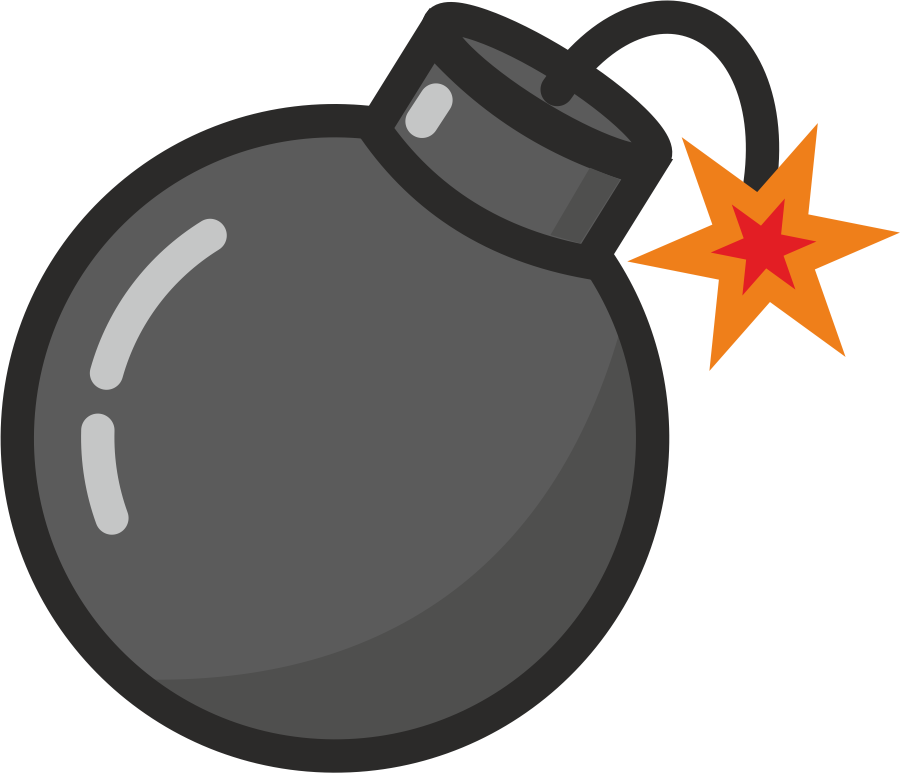
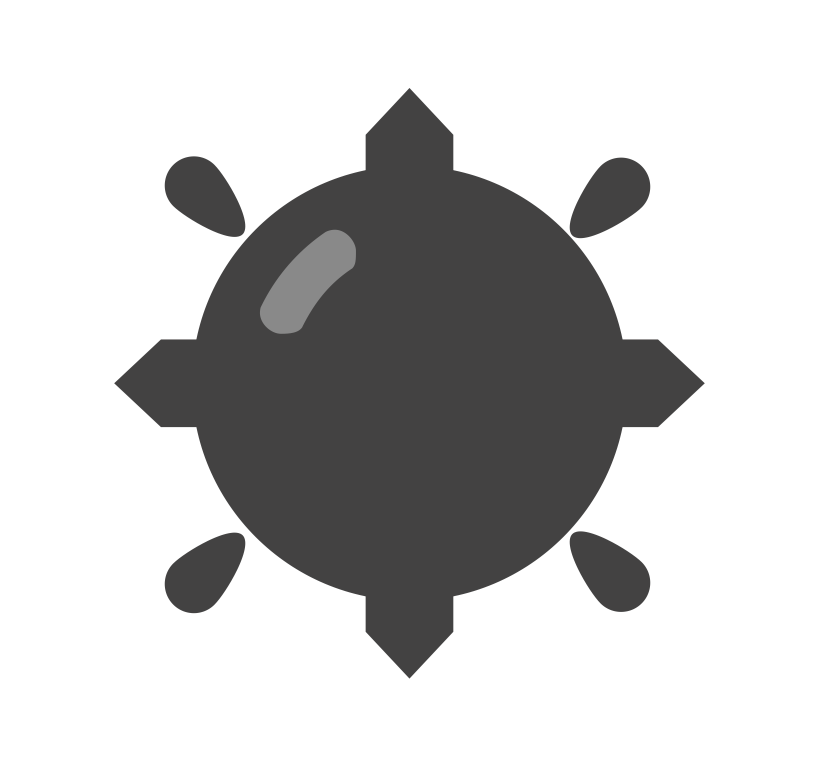
0.1 changes style, add flag

diff --git a/Minesweeper_on_array/saper_on_array.html b/Minesweeper_on_array/saper_on_array.html
@@ -13,38 +13,61 @@
             margin: auto;
             text-align: center;
             font-family: 'Roboto Slab', serif;
+            background-color: lightgray;
+            font-size: 18px;
         }
 
         #wrap {
-            width: 176px;
-            height: 176px;
+            width: 266px;
+            height: 266px;
+            border: 3px solid DimGrey;
+            border-top-color: white;
+            border-left-color: white;
+        }
+
+        #conteiner {
+            margin: 7px;
+            width: 246px;
+            height: 246px;
+            border: 3px solid DimGrey;
+            border-bottom-color: white;
+            border-right-color: white;
 
         }
 
         .item {
-            width: 20px;
-            height: 20px;
-            margin: 1px;
-            background: darkgray;
+            width: 30px;
+            height: 30px;
+            margin: 0px;
             text-align: center;
             float: left;
-            line-height: 16px;
+            border: 3px solid DimGrey;
+            border-top-color: white;
+            border-left-color: white;
         }
 
         .bomb {
-            width: 20px;
-            height: 20px;
+            width: 30px;
+            height: 30px;
             background-image: url("bomb.png");
             background-size: contain;
             background-repeat: no-repeat;
             background-position: center;
-            background-color: white;
-
+            border: 1px solid darkgray;
         }
 
         .nobomb {
             background-color: lightgray;
-            border: 1px solid gray;
+            border: 1px solid darkgray;
+        }
+
+        .flag {
+            background-image: url("flag.png");
+            background-size: contain;
+            background-repeat: no-repeat;
+            background-position: center;
+            background-color: lightgray;
+
         }
 
         div span {
@@ -63,74 +86,75 @@
 <body>
     <button id="newgame">New game</button>
     <div id="wrap">
+        <div id="conteiner">
 
-        <div class="item" id="0"><span></span></div>
-        <div class="item" id="1"><span></span></div>
-        <div class="item" id="2"><span></span></div>
-        <div class="item" id="3"><span></span></div>
-        <div class="item" id="4"><span></span></div>
-        <div class="item" id="5"><span></span></div>
-        <div class="item" id="6"><span></span></div>
-        <div class="item" id="7"><span></span></div>
-        <div class="item" id="8"><span></span></div>
-        <div class="item" id="9"><span></span></div>
-        <div class="item" id="10"><span></span></div>
-        <div class="item" id="11"><span></span></div>
-        <div class="item" id="12"><span></span></div>
-        <div class="item" id="13"><span></span></div>
-        <div class="item" id="14"><span></span></div>
-        <div class="item" id="15"><span></span></div>
-        <div class="item" id="16"><span></span></div>
-        <div class="item" id="17"><span></span></div>
-        <div class="item" id="18"><span></span></div>
-        <div class="item" id="19"><span></span></div>
-        <div class="item" id="20"><span></span></div>
-        <div class="item" id="21"><span></span></div>
-        <div class="item" id="22"><span></span></div>
-        <div class="item" id="23"><span></span></div>
-        <div class="item" id="24"><span></span></div>
-        <div class="item" id="25"><span></span></div>
-        <div class="item" id="26"><span></span></div>
-        <div class="item" id="27"><span></span></div>
-        <div class="item" id="28"><span></span></div>
-        <div class="item" id="29"><span></span></div>
-        <div class="item" id="30"><span></span></div>
-        <div class="item" id="31"><span></span></div>
-        <div class="item" id="32"><span></span></div>
-        <div class="item" id="33"><span></span></div>
-        <div class="item" id="34"><span></span></div>
-        <div class="item" id="35"><span></span></div>
-        <div class="item" id="36"><span></span></div>
-        <div class="item" id="37"><span></span></div>
-        <div class="item" id="38"><span></span></div>
-        <div class="item" id="39"><span></span></div>
-        <div class="item" id="40"><span></span></div>
-        <div class="item" id="41"><span></span></div>
-        <div class="item" id="42"><span></span></div>
-        <div class="item" id="43"><span></span></div>
-        <div class="item" id="44"><span></span></div>
-        <div class="item" id="45"><span></span></div>
-        <div class="item" id="46"><span></span></div>
-        <div class="item" id="47"><span></span></div>
-        <div class="item" id="48"><span></span></div>
-        <div class="item" id="49"><span></span></div>
-        <div class="item" id="50"><span></span></div>
-        <div class="item" id="51"><span></span></div>
-        <div class="item" id="52"><span></span></div>
-        <div class="item" id="53"><span></span></div>
-        <div class="item" id="54"><span></span></div>
-        <div class="item" id="55"><span></span></div>
-        <div class="item" id="56"><span></span></div>
-        <div class="item" id="57"><span></span></div>
-        <div class="item" id="58"><span></span></div>
-        <div class="item" id="59"><span></span></div>
-        <div class="item" id="60"><span></span></div>
-        <div class="item" id="61"><span></span></div>
-        <div class="item" id="62"><span></span></div>
-        <div class="item" id="63"><span></span></div>
+            <div class="item" id="0"><span></span></div>
+            <div class="item" id="1"><span></span></div>
+            <div class="item" id="2"><span></span></div>
+            <div class="item" id="3"><span></span></div>
+            <div class="item" id="4"><span></span></div>
+            <div class="item" id="5"><span></span></div>
+            <div class="item" id="6"><span></span></div>
+            <div class="item" id="7"><span></span></div>
+            <div class="item" id="8"><span></span></div>
+            <div class="item" id="9"><span></span></div>
+            <div class="item" id="10"><span></span></div>
+            <div class="item" id="11"><span></span></div>
+            <div class="item" id="12"><span></span></div>
+            <div class="item" id="13"><span></span></div>
+            <div class="item" id="14"><span></span></div>
+            <div class="item" id="15"><span></span></div>
+            <div class="item" id="16"><span></span></div>
+            <div class="item" id="17"><span></span></div>
+            <div class="item" id="18"><span></span></div>
+            <div class="item" id="19"><span></span></div>
+            <div class="item" id="20"><span></span></div>
+            <div class="item" id="21"><span></span></div>
+            <div class="item" id="22"><span></span></div>
+            <div class="item" id="23"><span></span></div>
+            <div class="item" id="24"><span></span></div>
+            <div class="item" id="25"><span></span></div>
+            <div class="item" id="26"><span></span></div>
+            <div class="item" id="27"><span></span></div>
+            <div class="item" id="28"><span></span></div>
+            <div class="item" id="29"><span></span></div>
+            <div class="item" id="30"><span></span></div>
+            <div class="item" id="31"><span></span></div>
+            <div class="item" id="32"><span></span></div>
+            <div class="item" id="33"><span></span></div>
+            <div class="item" id="34"><span></span></div>
+            <div class="item" id="35"><span></span></div>
+            <div class="item" id="36"><span></span></div>
+            <div class="item" id="37"><span></span></div>
+            <div class="item" id="38"><span></span></div>
+            <div class="item" id="39"><span></span></div>
+            <div class="item" id="40"><span></span></div>
+            <div class="item" id="41"><span></span></div>
+            <div class="item" id="42"><span></span></div>
+            <div class="item" id="43"><span></span></div>
+            <div class="item" id="44"><span></span></div>
+            <div class="item" id="45"><span></span></div>
+            <div class="item" id="46"><span></span></div>
+            <div class="item" id="47"><span></span></div>
+            <div class="item" id="48"><span></span></div>
+            <div class="item" id="49"><span></span></div>
+            <div class="item" id="50"><span></span></div>
+            <div class="item" id="51"><span></span></div>
+            <div class="item" id="52"><span></span></div>
+            <div class="item" id="53"><span></span></div>
+            <div class="item" id="54"><span></span></div>
+            <div class="item" id="55"><span></span></div>
+            <div class="item" id="56"><span></span></div>
+            <div class="item" id="57"><span></span></div>
+            <div class="item" id="58"><span></span></div>
+            <div class="item" id="59"><span></span></div>
+            <div class="item" id="60"><span></span></div>
+            <div class="item" id="61"><span></span></div>
+            <div class="item" id="62"><span></span></div>
+            <div class="item" id="63"><span></span></div>
 
+        </div>
     </div>
-
     <script src="saper.js"></script>
 </body>
 

diff --git a/Minesweeper_on_array/saper.js b/Minesweeper_on_array/saper.js
@@ -1,43 +1,41 @@
 // get DOM
 const newGameButton = document.getElementById("newgame");
-const square = [...document.querySelectorAll(".item")];
+const squares = [...document.querySelectorAll(".item")];
 const wrap = document.getElementById("wrap");
 
 // global scope
 const indexBombs = [];
-const sumaTab = [];
+const sumTab = new Array(64);
 
 // first viev
 if (indexBombs.length == 0) {
     wrap.style.display = "none";
 };
 
-
 const randomBomb = () => {
 
     // cleaning the game
-    square.forEach(item => item.textContent = "");
+    squares.forEach(item => {
+        item.textContent = "";
+        item.style.backgroundColor = 'lightgray';
+    });
     indexBombs.length = 0;
     const normalNumbers = [];
     const edgeLeftNumbers = [];
     const edgeRightNumbers = [];
-    sumaTab.length = 65;
-    sumaTab.fill(0, 0, 65);
+    sumTab.fill(0, 0, 64);
     wrap.style.display = "block";
 
     // generating bombs
-    square.forEach((item, index) => {
-        square[index].classList.remove("bomb", "nobomb");
+    squares.forEach((_, index) => {
+        squares[index].classList.remove("bomb", "nobomb", "flag");
     });
     while (indexBombs.length < 8) {
         let random = (Math.floor((Math.random() * 65)));
-        if (indexBombs.indexOf(random) === -1) {
+        if (!indexBombs.includes(random)) {
             indexBombs.push(random)
         }
     };
-
-    console.log(indexBombs);
-
     // divide for 3 cases
     indexBombs.forEach((item) => {
         if (item % 8 == 0) {
@@ -57,7 +55,7 @@ const randomBomb = () => {
         indexAdd.forEach((i) => {
             let c = item + i;
             if (c >= 0 && c <= 63) {
-                sumaTab[c] += 1
+                sumTab[c] += 1
             }
         });
     });
@@ -69,7 +67,7 @@ const randomBomb = () => {
         indexAdd.forEach((i) => {
             let c = item + i;
             if (c >= 0 && c <= 63) {
-                sumaTab[c] += 1
+                sumTab[c] += 1
             }
         });
     });
@@ -81,30 +79,50 @@ const randomBomb = () => {
         indexAdd.forEach((i) => {
             let c = item + i;
             if (c >= 0 && c <= 63) {
-                sumaTab[c] += 1
+                sumTab[c] += 1
             }
         });
     });
-    console.log(sumaTab);
 };
+
 newGameButton.onclick = randomBomb;
 
 // game
 
-for (let i = 0; i < square.length; i++) {
-    const checkBomb = (e) => {
-        let divNumber = e.target.id;
-        if (indexBombs.includes(parseInt(divNumber))) {
-            e.target.classList.toggle("bomb");
+const checkBomb = (e) => {
+    let square = e.target;
 
-        } else {
-            e.target.classList.toggle("nobomb");
-            let text = sumaTab[divNumber];
+    let divNumber = parseInt(e.target.id);
+
+    if (indexBombs.includes(divNumber) && square.classList.length < 2) {
+
+        console.log(indexBombs);
+        indexBombs.forEach(item => {
+            squares[item].classList.add("bomb")
+        });
+        if (square.classList.length < 3) {
+            square.style.backgroundColor = "rgb(231, 6, 6)"
+        }
+
+    } else {
+        if (square.classList.length < 2) {
+            square.classList.add("nobomb");
+            let text = sumTab[divNumber];
             if (text != 0) {
-                e.target.textContent = text;
+                square.textContent = text;
             }
         }
-        console.log(e.target);
-    };
-    square[i].addEventListener("click", checkBomb);
+    }
+};
+
+for (let i = 0; i < squares.length; i++) {
+    squares[i].addEventListener("click", checkBomb);
+    squares[i].addEventListener("contextmenu", function (e) {
+        e.preventDefault();
+        if (e.target.classList.length < 2) {
+            e.target.classList.add("flag")
+        } else {
+            e.target.classList.remove("flag")
+        }
+    }, false);
 };
